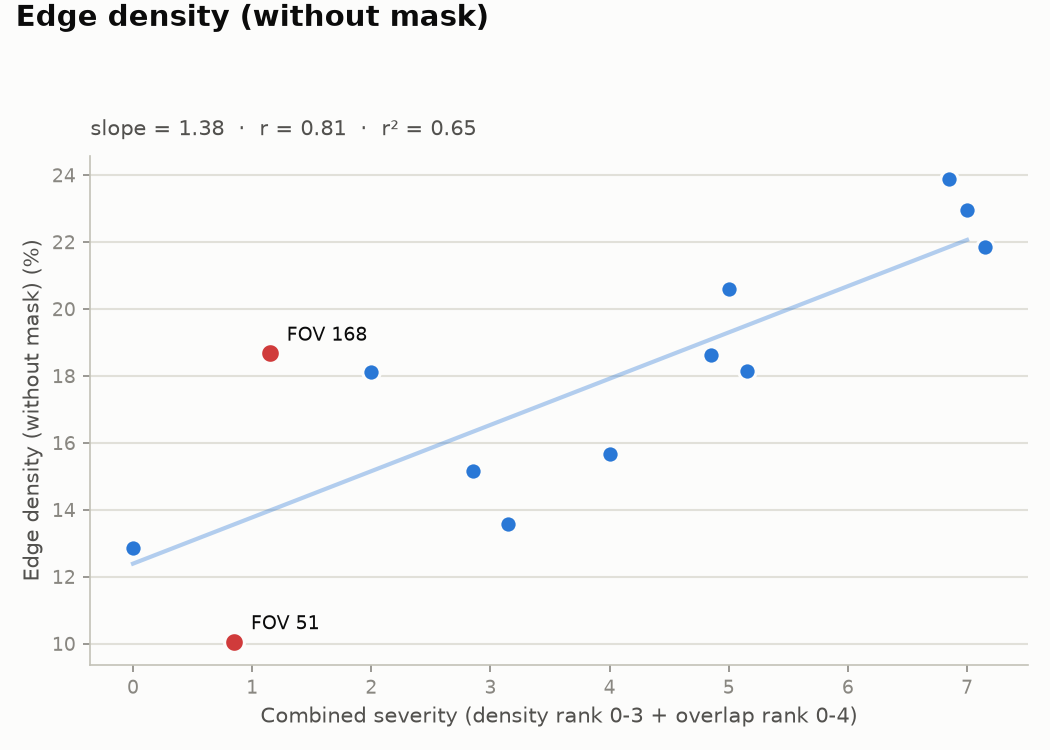
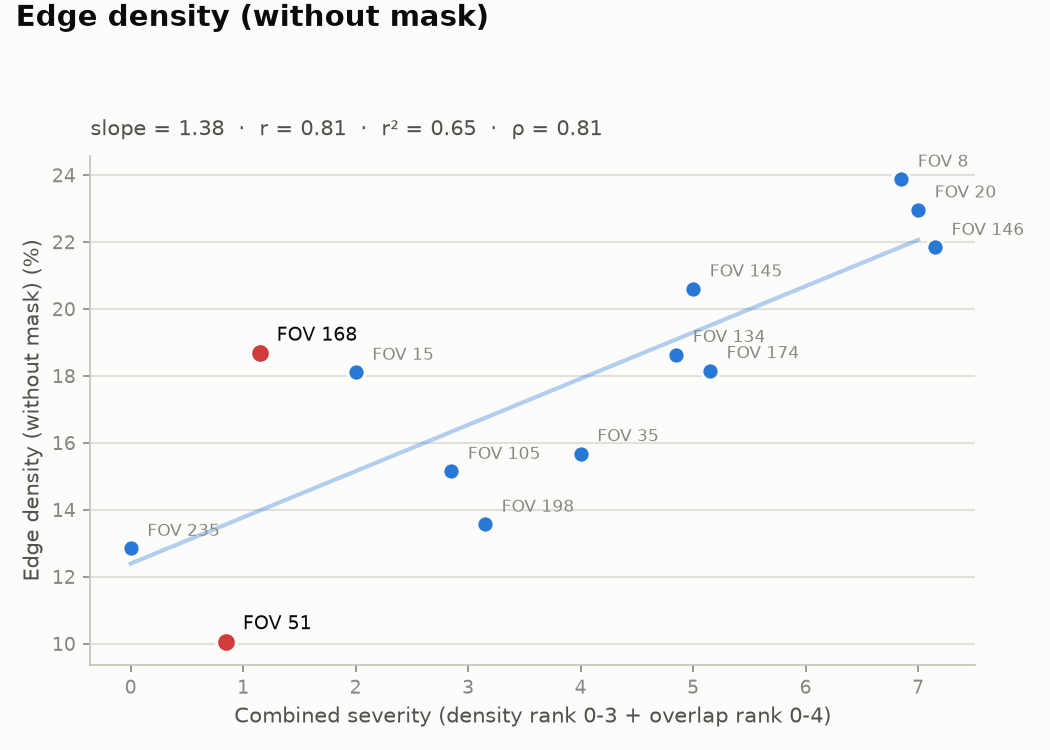
Add Spearman rank correlation and full FOV labeling to technique plots
generate_report.py now computes Spearman's rho alongside Pearson's r
per technique (shown in each plot title and the report), and labels
every FOV's point on each scatter plot instead of only outliers.
Regenerated all 5 plots and report.md against the current data.

diff --git a/scripts/generate_report.py b/scripts/generate_report.py
@@ -14,6 +14,7 @@ import matplotlib
 matplotlib.use("Agg")
 import matplotlib.pyplot as plt
 import numpy as np
+from scipy.stats import spearmanr
 
 sys.path.insert(0, str(Path(__file__).resolve().parent.parent))
 
@@ -86,10 +87,11 @@ def find_outliers(records):
         rec["residual"] = resid
         rec["is_outlier"] = std > 0 and abs(resid) > OUTLIER_Z * std
     r = np.corrcoef(x, y)[0, 1]
-    return slope, intercept, std, r
+    rho = spearmanr(x, y).statistic
+    return slope, intercept, std, r, rho
 
 
-def plot_technique(name, unit, records, slope, intercept, corr, out_path):
+def plot_technique(name, unit, records, slope, intercept, corr, rho, out_path):
     fig, ax = plt.subplots(figsize=(7, 5), dpi=150)
     fig.patch.set_facecolor(COLOR_SURFACE)
     ax.set_facecolor(COLOR_SURFACE)
@@ -118,6 +120,15 @@ def plot_technique(name, unit, records, slope, intercept, corr, out_path):
         linewidths=1.5,
         zorder=3,
     )
+    for r in normal:
+        ax.annotate(
+            f"FOV {r['fov']}",
+            (r["x"], r["value"]),
+            textcoords="offset points",
+            xytext=(8, 6),
+            fontsize=8,
+            color=COLOR_MUTED,
+        )
     for r in outliers:
         ax.annotate(
             f"FOV {r['fov']}",
@@ -130,7 +141,7 @@ def plot_technique(name, unit, records, slope, intercept, corr, out_path):
 
     fig.suptitle(name, x=0.015, y=0.995, ha="left", color=COLOR_PRIMARY, fontsize=14, fontweight="bold")
     ax.set_title(
-        f"slope = {slope:.2f}  ·  r = {corr:.2f}  ·  r² = {corr ** 2:.2f}",
+        f"slope = {slope:.2f}  ·  r = {corr:.2f}  ·  r² = {corr ** 2:.2f}  ·  ρ = {rho:.2f}",
         color=COLOR_SECONDARY,
         fontsize=10,
         loc="left",
@@ -179,11 +190,11 @@ def main():
             )
 
         jittered_x(records)
-        slope, intercept, std, r = find_outliers(records)
+        slope, intercept, std, r, rho = find_outliers(records)
 
         slug = name.lower().replace(" ", "-").replace("(", "").replace(")", "")
         plot_path = PLOTS_DIR / f"{slug}.png"
-        plot_technique(name, unit, records, slope, intercept, r, plot_path)
+        plot_technique(name, unit, records, slope, intercept, r, rho, plot_path)
 
         outliers = [r_ for r_ in records if r_["is_outlier"]]
         for o in outliers:
@@ -193,12 +204,16 @@ def main():
         strength = (
             "strong" if abs(r) >= 0.7 else "moderate" if abs(r) >= 0.4 else "weak"
         )
+        rho_strength = (
+            "strong" if abs(rho) >= 0.7 else "moderate" if abs(rho) >= 0.4 else "weak"
+        )
         lines = [
             f"## {name}",
             "",
             f"![{name}](plots/{slug}.png)",
             "",
             f"- Trend: value {direction} with combined severity (slope={slope:.2f}, r={r:.2f}, r²={r ** 2:.2f}, {strength} correlation).",
+            f"- Rank correlation: Spearman's ρ={rho:.2f} ({rho_strength} correlation).",
         ]
         if outliers:
             outlier_desc = "; ".join(
@@ -244,7 +259,7 @@ def main():
     )
 
     report_path = RESULTS_DIR / "report.md"
-    report_path.write_text(report)
+    report_path.write_text(report, encoding="utf-8")
     print(f"Wrote report to {report_path}")
     print(f"Wrote {len(TECHNIQUES)} plots to {PLOTS_DIR}")
 
